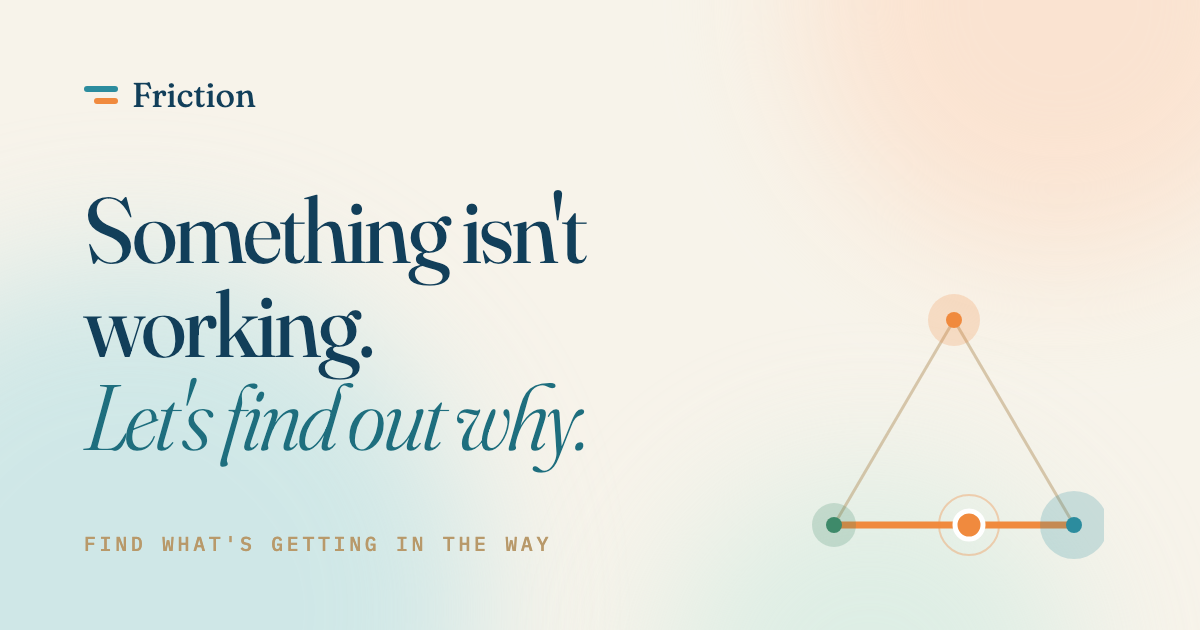
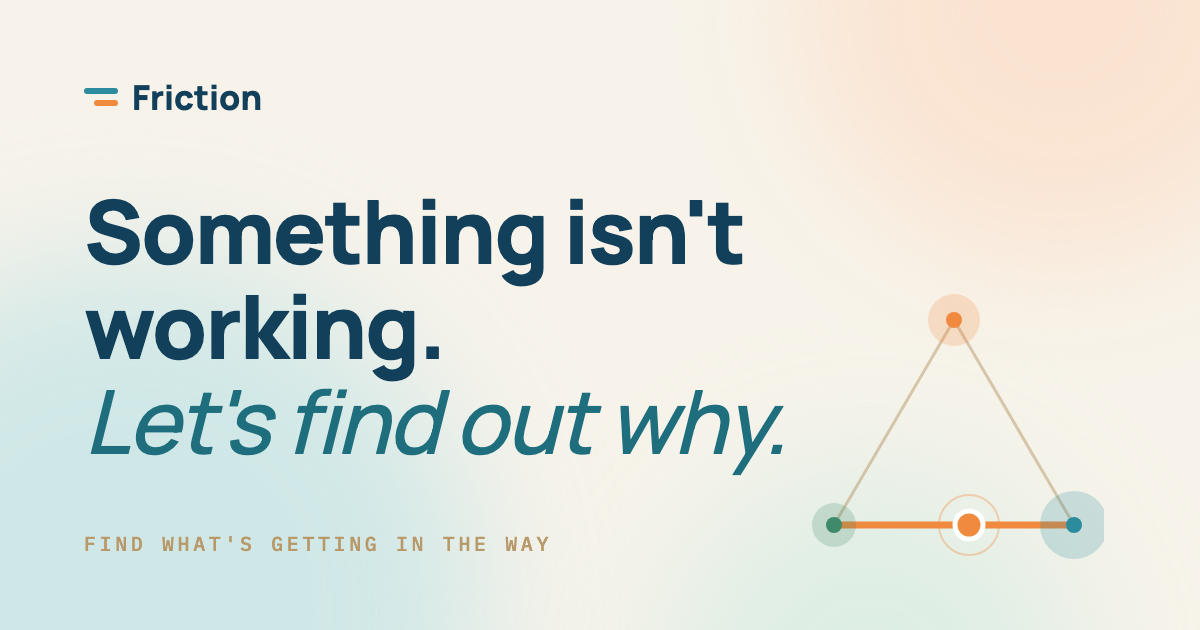
Regenerate the link-preview image without Fraunces
The OG image source was the one remaining place still requesting
Fraunces. Rebuilt it in Manrope at extra-bold weight to match the
site's new all-sans type system.

Changed region(s): [[0.0617, 0.4524, 0.6475, 0.754], [0.0617, 0.3016, 0.6167, 0.4524], [0.0617, 0.1206, 0.2158, 0.181]]

diff --git a/og-image-source.html b/og-image-source.html
@@ -1,5 +1,5 @@
 <!DOCTYPE html><html><head><meta charset="utf-8">
-<link rel="stylesheet" href="https://fonts.googleapis.com/css2?family=Fraunces:ital,opsz,wght@0,9..144,400;1,9..144,300&family=Manrope:wght@500&family=IBM+Plex+Mono:wght@500&display=swap">
+<link rel="stylesheet" href="https://fonts.googleapis.com/css2?family=Manrope:wght@500;800&family=IBM+Plex+Mono:wght@500&display=swap">
 <style>
 html,body{margin:0}
 body{width:1200px;height:630px;overflow:hidden;background:#F7F3EA;font-family:'Manrope',sans-serif;position:relative;color:#123F5A}
@@ -8,9 +8,9 @@ body{width:1200px;height:630px;overflow:hidden;background:#F7F3EA;font-family:'M
 .b{width:520px;height:520px;right:-120px;top:-260px;background:#FBE3D0;opacity:.95}
 .c{width:420px;height:420px;right:120px;bottom:-260px;background:#D3ECE3;opacity:.7}
 .wrap{position:absolute;inset:0;padding:74px 84px;display:flex;flex-direction:column;justify-content:space-between}
-.wm{display:flex;align-items:center;gap:14px;font-family:'Fraunces',serif;font-size:34px;font-weight:500}
+.wm{display:flex;align-items:center;gap:14px;font-family:'Manrope',sans-serif;font-size:34px;font-weight:800}
 .mark{display:grid;gap:6px}.mark i{display:block;height:6px;border-radius:3px;background:#2C8C9E;width:34px}.mark i+i{background:#F08A3E;width:24px;justify-self:end}
-h1{font-family:'Fraunces',serif;font-variation-settings:'opsz' 144;font-weight:400;font-size:92px;line-height:1.02;letter-spacing:-.025em;margin:0}
+h1{font-family:'Manrope',sans-serif;font-weight:800;font-size:88px;line-height:1.08;letter-spacing:-.02em;margin:0}
 h1 em{font-style:italic;font-weight:300;color:#1E6E7E}
 .tag{font-family:'IBM Plex Mono',monospace;font-size:20px;letter-spacing:.18em;text-transform:uppercase;color:#B8996A}
 svg{position:absolute;right:96px;bottom:70px}
